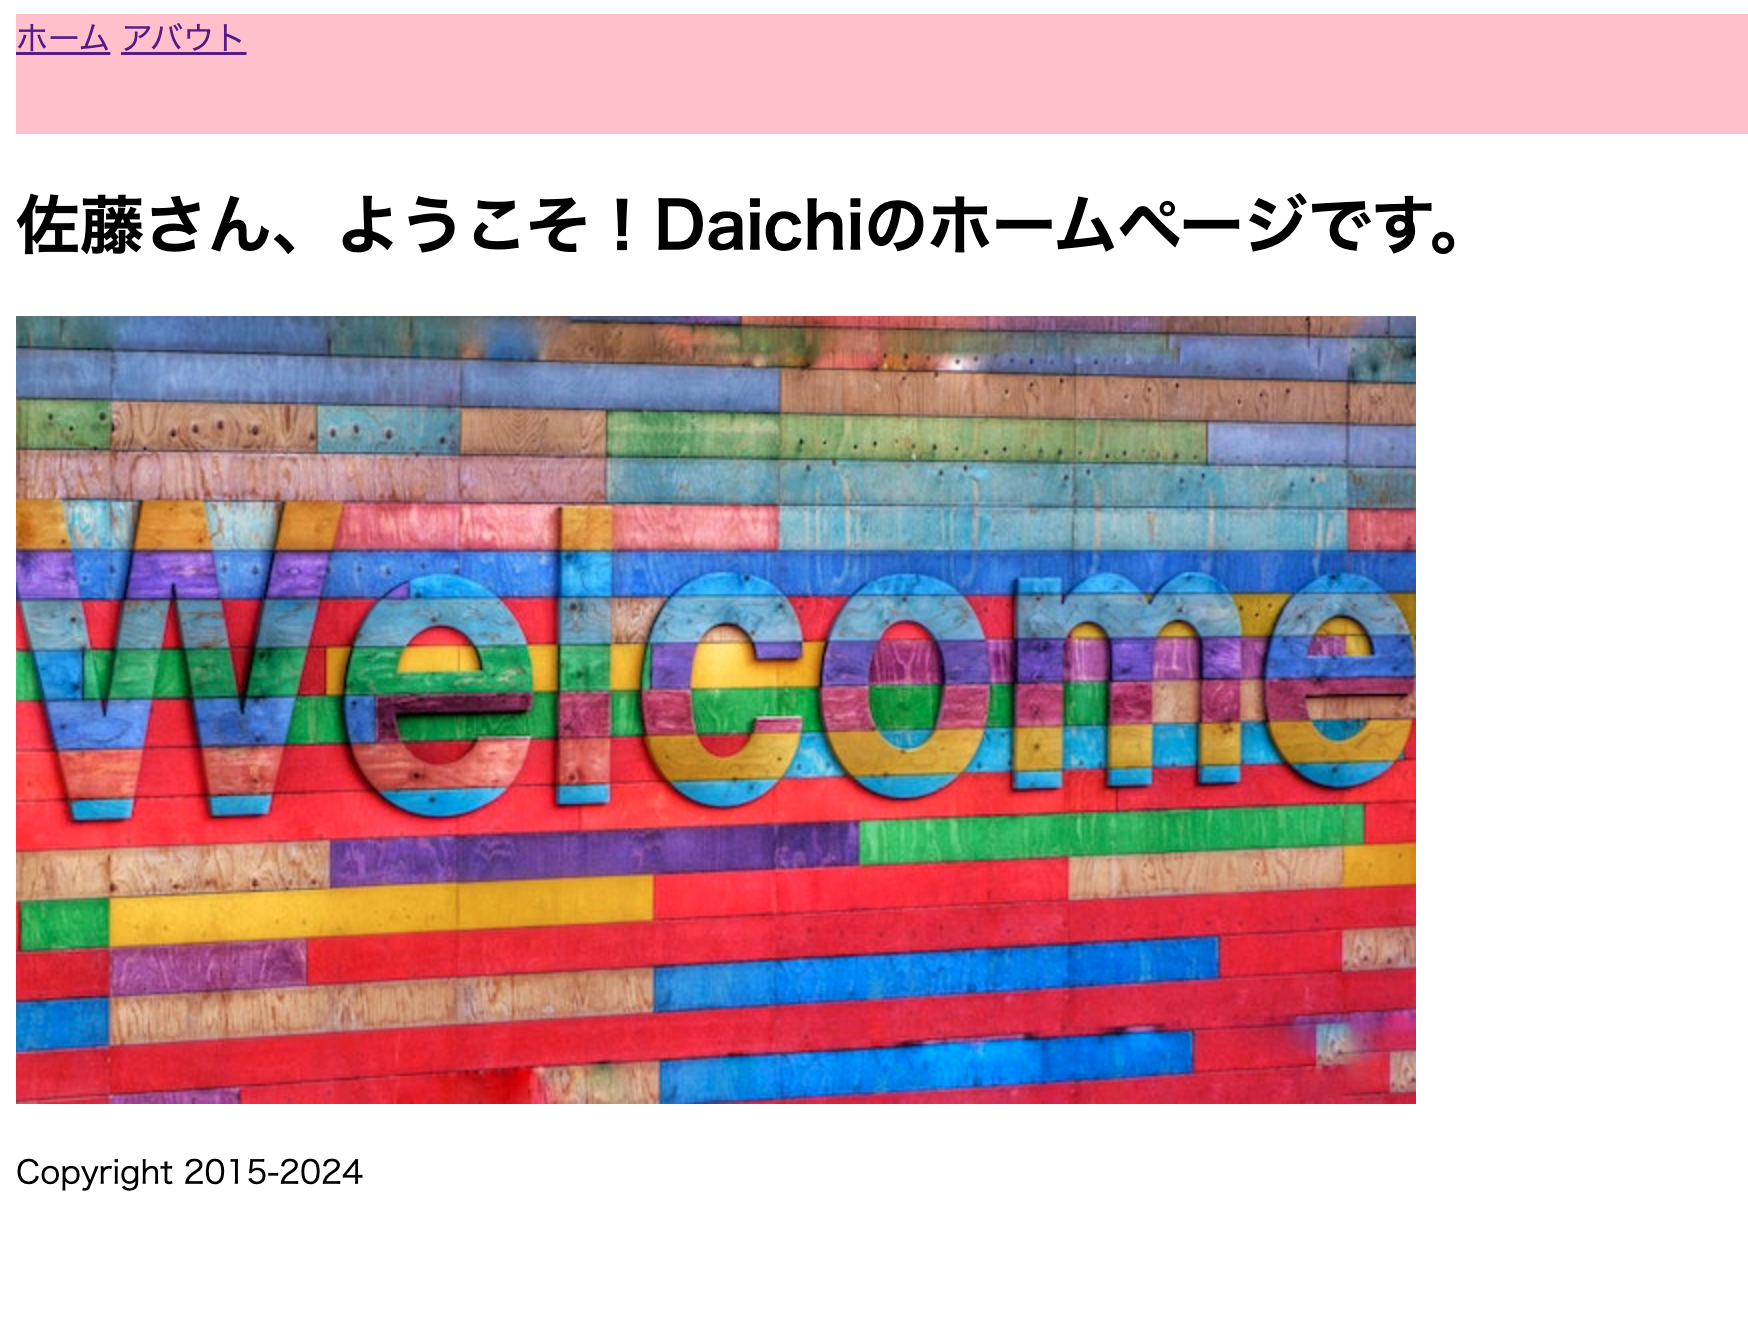
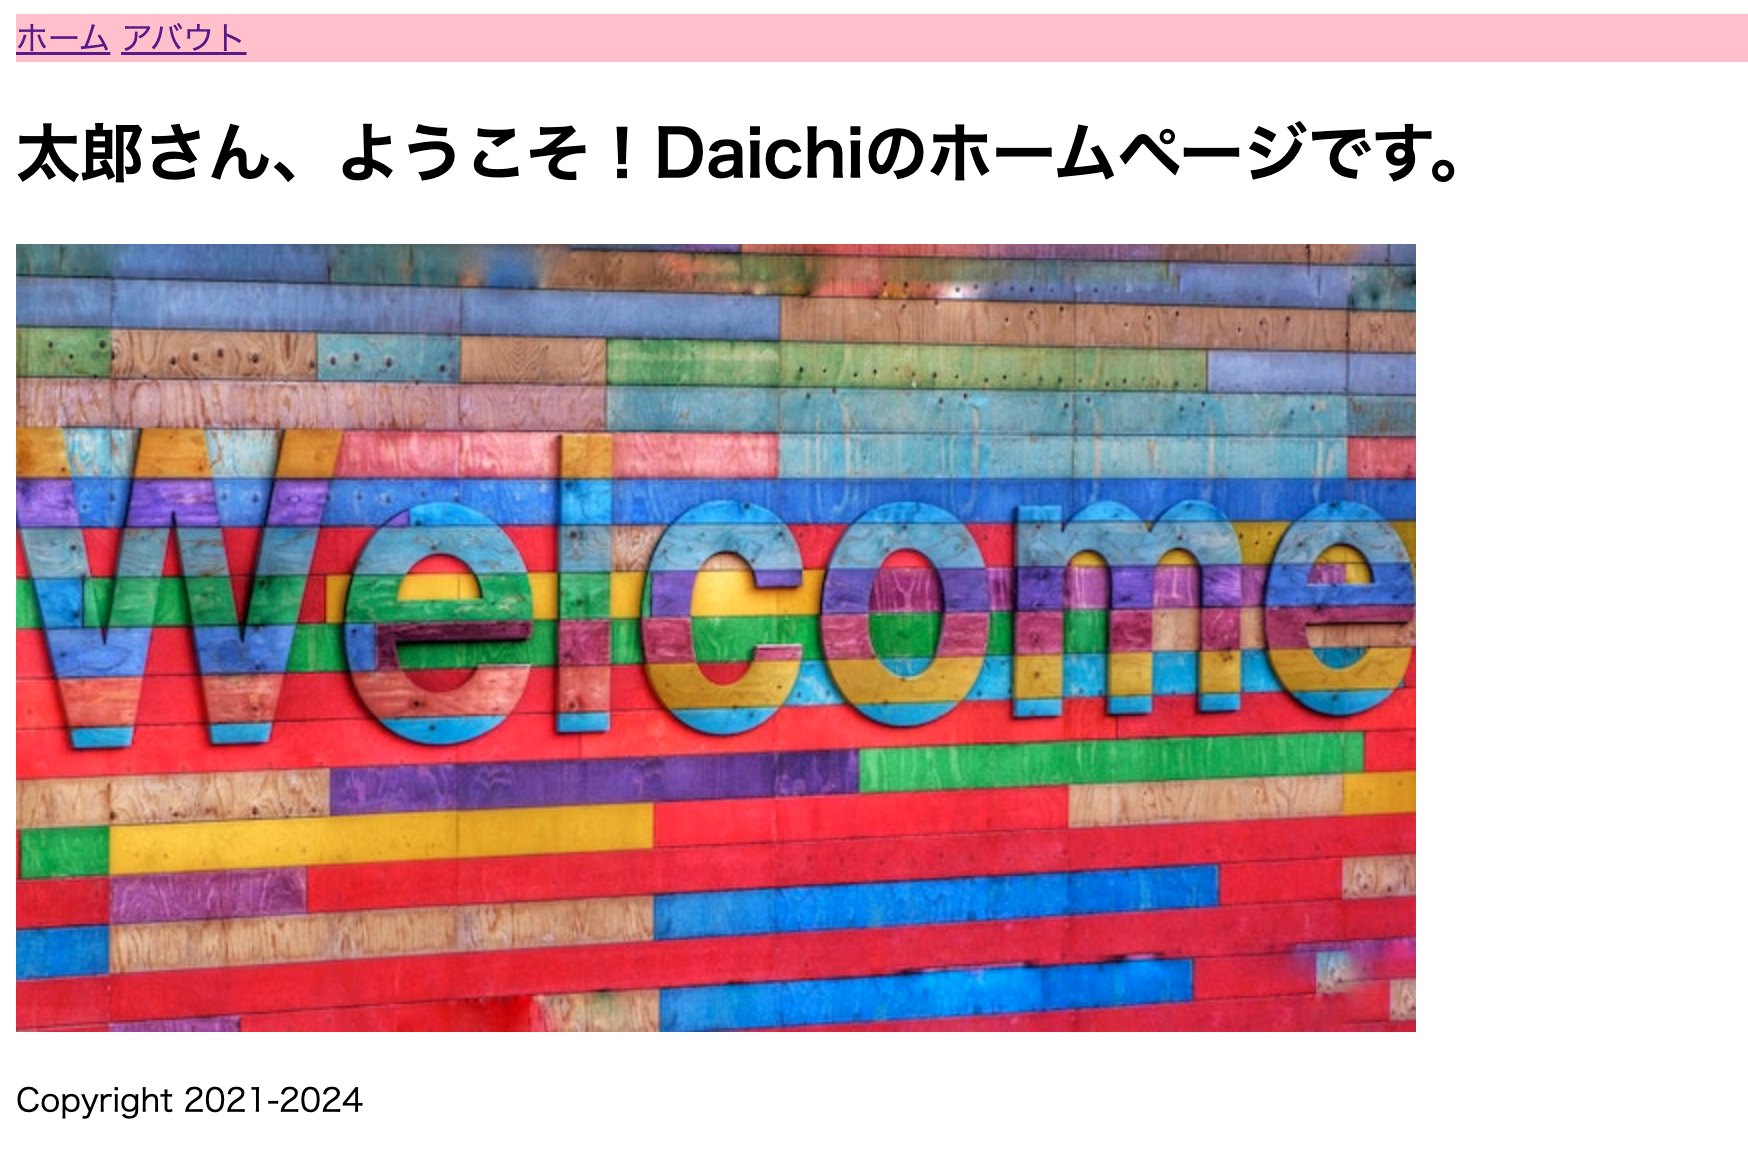
不要な処理を修正

diff --git a/website/templates/about.html b/website/templates/about.html
@@ -1,16 +1,15 @@
-{% extends "base.html" %}
-{% load static humanize %}
-
+{% extends 'base.html' %}
+{% load humanize %}
 {% block main %}
-            <h1>自己紹介</h1>
-            <h2>実績</h2>
-            <p>{% now "Y年m月d日 H時i分" %}現在{{ num_services|intcomma }}個のサービスを作成しました。</p>
-            <h2>スキル</h2>
-            <ul>
-                {% for skill in skills %}
-                <li>{{ skill }}</li>
-                {% empty %}
-                <li>スキルがありません。</li>
-                {% endfor %}
-            </ul>
+<h1>自己紹介</h1>
+<h2>実績</h2>
+<p>{% now 'Y年m月d日 h時i分' %}現在までに{{ num_services|intcomma }}個のサービスを作りました！</p>
+<h2>スキル</h2>
+<ul>
+    {% for skil in skills %}
+    <li>{{ skil }}</li>
+    {% empty %}
+    <li>スキルがありません！</li>
+    {% endfor %}
+</ul>
 {% endblock %}

diff --git a/website/templates/index.html b/website/templates/index.html
@@ -1,13 +1,14 @@
-{% extends "base.html" %}
+{% extends 'base.html' %}
 {% load static %}
 
 {% block main %}
-{% if username == "{{ myname }}" %}
-<h1>自分です。</h1>
-{% elif username %}
-<h1>{{ username }}さん、ようこそ！{{ myname }}のホームページです。</h1>
-{% else %}
-<h1>匿名ユーザーさん、ようこそ！Shunのホームページです。</h1>
-{% endif %}
-<img src="{% static 'welcome.jpg' %}" />
+    {% if username == '{{ myname }}' %}
+    <h1>自分です。</h1>
+    {% elif username %}
+    <h1>{{ username }}さん、ようこそ！{{ myname }}のホームページです。</h1>
+    {% else  %}
+    <h1>匿名さん、ようこそ！</h1>
+    {% endif %}
+
+<img src="{% static 'welcome.jpg' %}" alt="welcome"/>
 {% endblock %}

diff --git a/website/templates/base.html b/website/templates/base.html
@@ -1,15 +1,17 @@
 {% load static %}
-<!doctype HTML>
-<html>
+<!doctype HTml>
+<html lang="ja">
     <head>
-        <link rel="stylesheet" href="{% static 'main.css' %}">
+        <title>チュートリアル</title>
+        <link rel='stylesheet' href="{% static 'main.css' %}">
     </head>
     <body>
         {% include "_navbar.html" %}
-        <div>
-            {% block main %}
-            {% endblock %}
-        </div>
+
+        {% block main %}
+        コンテンツがありません
+        {% endblock %}
+
         {% include "_footer.html" %}
     </body>
 </html>

diff --git a/website/templates/_footer.html b/website/templates/_footer.html
@@ -1,3 +1,3 @@
-        <div class="footer">
-            <p>Copyright 2015-{% now "Y" %}</p>
-        </div>
+<div>
+    <p>Copyright 2021-{% now 'Y' %}</p>
+</div>

diff --git a/website/static/main.css b/website/static/main.css
@@ -1,4 +1,3 @@
 .navbar {
     background: pink;
-    height: 60px;
 }

diff --git a/config/settings.py b/config/settings.py
@@ -1,13 +1,13 @@
 """
 Django settings for config project.
 
-Generated by 'django-admin startproject' using Django 3.0.2.
+Generated by 'django-admin startproject' using Django 2.2.5.
 
 For more information on this file, see
-https://docs.djangoproject.com/en/3.0/topics/settings/
+https://docs.djangoproject.com/en/2.2/topics/settings/
 
 For the full list of settings and their values, see
-https://docs.djangoproject.com/en/3.0/ref/settings/
+https://docs.djangoproject.com/en/2.2/ref/settings/
 """
 
 import os
@@ -17,10 +17,10 @@ BASE_DIR = os.path.dirname(os.path.dirname(os.path.abspath(__file__)))
 
 
 # Quick-start development settings - unsuitable for production
-# See https://docs.djangoproject.com/en/3.0/howto/deployment/checklist/
+# See https://docs.djangoproject.com/en/2.2/howto/deployment/checklist/
 
 # SECURITY WARNING: keep the secret key used in production secret!
-SECRET_KEY = "or_##f=%3xl@-q23yug2*hva@ft7%p^h2r%#r7f+)f*7+d)%*6"
+SECRET_KEY = "ckp9@cz_lud-*umguu+w--99_4w6oj6p3o)7)n5p^3y4ed*)gd"
 
 # SECURITY WARNING: don't run with debug turned on in production!
 DEBUG = True
@@ -74,7 +74,7 @@ WSGI_APPLICATION = "config.wsgi.application"
 
 
 # Database
-# https://docs.djangoproject.com/en/3.0/ref/settings/#databases
+# https://docs.djangoproject.com/en/2.2/ref/settings/#databases
 
 DATABASES = {
     "default": {
@@ -85,7 +85,7 @@ DATABASES = {
 
 
 # Password validation
-# https://docs.djangoproject.com/en/3.0/ref/settings/#auth-password-validators
+# https://docs.djangoproject.com/en/2.2/ref/settings/#auth-password-validators
 
 AUTH_PASSWORD_VALIDATORS = [
     {
@@ -104,7 +104,7 @@ AUTH_PASSWORD_VALIDATORS = [
 
 
 # Internationalization
-# https://docs.djangoproject.com/en/3.0/topics/i18n/
+# https://docs.djangoproject.com/en/2.2/topics/i18n/
 
 LANGUAGE_CODE = "en-us"
 
@@ -118,10 +118,8 @@ USE_TZ = True
 
 
 # Static files (CSS, JavaScript, Images)
-# https://docs.djangoproject.com/en/3.0/howto/static-files/
+# https://docs.djangoproject.com/en/2.2/howto/static-files/
 
-STATIC_URL = "/assets/"
+STATIC_URL = "/static/"
 STATIC_ROOT = os.path.join(BASE_DIR, "staticfiles")
-
-
 STATICFILES_STORAGE = "whitenoise.storage.CompressedManifestStaticFilesStorage"

diff --git a/website/views.py b/website/views.py
@@ -3,21 +3,19 @@ from django.views.generic import TemplateView
 
 class IndexView(TemplateView):
     template_name = "index.html"
-    
+
     def get_context_data(self):
         ctxt = super().get_context_data()
-        ctxt["username"] = "佐藤"
+        ctxt["username"] = "太郎"
         ctxt["myname"] = "Daichi"
         return ctxt
-    
+
 
 class AboutView(TemplateView):
     template_name = "about.html"
-    
+
     def get_context_data(self):
         ctxt = super().get_context_data()
-        ctxt["skills"] = [
-            "Python",
-        ]
-        ctxt["num_services"] = 298
+        ctxt["num_services"] = 12345678
+        ctxt["skills"] = ["Python", "C++", "javascript", "Rust", "Go"]
         return ctxt

diff --git a/config/urls.py b/config/urls.py
@@ -1,7 +1,7 @@
 """config URL Configuration
 
 The `urlpatterns` list routes URLs to views. For more information please see:
-    https://docs.djangoproject.com/en/3.0/topics/http/urls/
+    https://docs.djangoproject.com/en/2.2/topics/http/urls/
 Examples:
 Function views
     1. Add an import:  from my_app import views
@@ -17,7 +17,4 @@ Including another URLconf
 from django.contrib import admin
 from django.urls import path, include
 
-urlpatterns = [
-    path("admin/", admin.site.urls),
-    path("", include("website.urls")),
-]
+urlpatterns = [path("admin/", admin.site.urls), path("", include("website.urls"))]

diff --git a/website/urls.py b/website/urls.py
@@ -3,6 +3,6 @@ from django.urls import path
 from .views import IndexView, AboutView
 
 urlpatterns = [
-    path('', IndexView.as_view(), name="index"),
-    path('aboutus/', AboutView.as_view(), name="about"),
+    path("", IndexView.as_view(), name="index"),
+    path("about/", AboutView.as_view(), name="about"),
 ]

diff --git a/config/wsgi.py b/config/wsgi.py
@@ -4,7 +4,7 @@ WSGI config for config project.
 It exposes the WSGI callable as a module-level variable named ``application``.
 
 For more information on this file, see
-https://docs.djangoproject.com/en/3.0/howto/deployment/wsgi/
+https://docs.djangoproject.com/en/2.2/howto/deployment/wsgi/
 """
 
 import os

diff --git a/website/apps.py b/website/apps.py
@@ -2,4 +2,4 @@ from django.apps import AppConfig
 
 
 class WebsiteConfig(AppConfig):
-    name = 'website'
+    name = "website"
